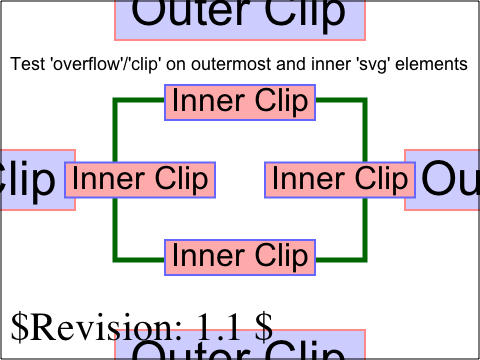
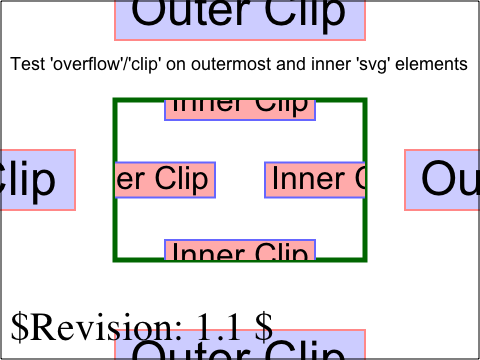
2006-08-11  Eric Seidel  <eric@eseidel.com>
Reviewed by andersca.

        The outermost <svg> element needs to clip itself
        http://bugzilla.opendarwin.org/show_bug.cgi?id=5358

        * css/cssstyleselector.cpp:
        (WebCore::CSSStyleSelector::adjustRenderStyle): adjust for SVG overflow rules
        * kcanvas/RenderSVGContainer.cpp:
        (WebCore::RenderSVGContainer::requiresLayer): only require layers for absolute/relative positioning of outermost SVG
        (WebCore::RenderSVGContainer::paint):
        * kcanvas/device/KRenderingDevice.h:
        * kcanvas/device/quartz/KRenderingDeviceQuartz.h: remove dead methods
        * kcanvas/device/quartz/KRenderingDeviceQuartz.mm: remove dead methods
        (WebCore::KRenderingDeviceContextQuartz::KRenderingDeviceContextQuartz):
        * ksvg2/svg/SVGPaint.cpp: spacing changes
        (WebCore::SVGPaint::SVGPaint): spacing cleanup
        * ksvg2/svg/SVGSVGElement.cpp:
        (WebCore::SVGSVGElement::parseMappedAttribute): spacing cleanup
        * platform/GraphicsContext.h: Added concatCTM
        * platform/cg/GraphicsContextCG.cpp:
        (WebCore::GraphicsContext::concatCTM): Added.

Identifier: 13280@main
git-svn-id: https://svn.webkit.org/repository/webkit/trunk@15842 268f45cc-cd09-0410-ab3c-d52691b4dbfc

diff --git a/WebCore/kcanvas/RenderSVGContainer.cpp b/WebCore/kcanvas/RenderSVGContainer.cpp
@@ -85,7 +85,8 @@ bool RenderSVGContainer::canHaveChildren() const
     
 bool RenderSVGContainer::requiresLayer()
 {
-    return false;
+    // Only allow an <svg> element to generate a layer when it's positioned in a non-SVG context
+    return (isPositioned() || isRelPositioned()) && (parent() && !parent()->element()->isSVGElement());
 }
 
 short RenderSVGContainer::lineHeight(bool b, bool isRootLineBox) const
@@ -126,7 +127,7 @@ void RenderSVGContainer::layout()
     RenderContainer::layout();
 }
 
-void RenderSVGContainer::paint(PaintInfo &paintInfo, int parentX, int parentY)
+void RenderSVGContainer::paint(PaintInfo& paintInfo, int parentX, int parentY)
 {
     if (paintInfo.p->paintingDisabled())
         return;
@@ -165,8 +166,11 @@ void RenderSVGContainer::paint(PaintInfo &paintInfo, int parentX, int parentY)
         parentX = parentY = 0;
     }
     
-    if (!viewport().isEmpty())
+    if (!viewport().isEmpty()) {
+        if (style()->overflowX() != OVISIBLE)
+            paintInfo.p->addClip(enclosingIntRect(viewport())); // FIXME: Eventually we'll want float-precision clipping
         deviceContext->concatCTM(AffineTransform().translate(viewport().x(), viewport().y()));
+    }
     
     if (!localTransform().isIdentity())
         deviceContext->concatCTM(localTransform());

diff --git a/WebCore/ksvg2/svg/SVGSVGElement.cpp b/WebCore/ksvg2/svg/SVGSVGElement.cpp
@@ -247,16 +247,19 @@ void SVGSVGElement::parseMappedAttribute(MappedAttribute *attr)
     } else if (attr->name() == SVGNames::heightAttr) {
         height()->baseVal()->setValueAsString(value.impl());
         addCSSProperty(attr, CSS_PROP_HEIGHT, value);
-    } else
-    {
-        if(SVGTests::parseMappedAttribute(attr)) return;
-        if(SVGLangSpace::parseMappedAttribute(attr)) return;
-        if(SVGExternalResourcesRequired::parseMappedAttribute(attr)) return;
+    } else {
+        if (SVGTests::parseMappedAttribute(attr))
+            return;
+        if (SVGLangSpace::parseMappedAttribute(attr))
+            return;
+        if (SVGExternalResourcesRequired::parseMappedAttribute(attr))
+            return;
         if (SVGFitToViewBox::parseMappedAttribute(attr)) {
             if (renderer())
                 static_cast<RenderSVGContainer*>(renderer())->setViewBox(FloatRect(viewBox()->baseVal()->x(), viewBox()->baseVal()->y(), viewBox()->baseVal()->width(), viewBox()->baseVal()->height()));
         }
-        if(SVGZoomAndPan::parseMappedAttribute(attr)) return;
+        if (SVGZoomAndPan::parseMappedAttribute(attr))
+            return;
 
         SVGStyledLocatableElement::parseMappedAttribute(attr);
     }

diff --git a/WebCore/ksvg2/svg/SVGPaint.cpp b/WebCore/ksvg2/svg/SVGPaint.cpp
@@ -25,25 +25,29 @@
 #include "ksvg.h"
 #include "SVGPaint.h"
 
-using namespace WebCore;
+namespace WebCore {
 
-SVGPaint::SVGPaint() : SVGColor()
+SVGPaint::SVGPaint()
+    : SVGColor()
 {
     m_paintType = SVG_PAINTTYPE_UNKNOWN;
 }
 
-SVGPaint::SVGPaint(StringImpl *uri) : SVGColor()
+SVGPaint::SVGPaint(StringImpl *uri)
+    : SVGColor()
 {
     m_paintType = SVG_PAINTTYPE_URI;
     setUri(uri);
 }
 
-SVGPaint::SVGPaint(unsigned short paintType) : SVGColor()
+SVGPaint::SVGPaint(unsigned short paintType)
+    : SVGColor()
 {
     m_paintType = paintType;
 }
 
-SVGPaint::SVGPaint(unsigned short paintType, StringImpl *uri, StringImpl *rgbPaint, StringImpl *) : SVGColor(rgbPaint)
+SVGPaint::SVGPaint(unsigned short paintType, StringImpl *uri, StringImpl *rgbPaint, StringImpl *)
+    : SVGColor(rgbPaint)
 {
     m_paintType = paintType;
     setUri(uri);
@@ -88,6 +92,8 @@ String SVGPaint::cssText() const
         return "url(" + m_uri + ")";
 
     return SVGColor::cssText();
+}
+
 }
 
 // vim:ts=4:noet

diff --git a/WebCore/kcanvas/device/quartz/KRenderingDeviceQuartz.mm b/WebCore/kcanvas/device/quartz/KRenderingDeviceQuartz.mm
@@ -44,7 +44,9 @@
 
 namespace WebCore {
 
-KRenderingDeviceContextQuartz::KRenderingDeviceContextQuartz(CGContextRef context) : m_cgContext(CGContextRetain(context)), m_nsGraphicsContext(0)
+KRenderingDeviceContextQuartz::KRenderingDeviceContextQuartz(CGContextRef context)
+    : m_cgContext(CGContextRetain(context))
+    , m_nsGraphicsContext(0)
 {
     ASSERT(m_cgContext);
 }
@@ -68,16 +70,6 @@ KCanvasMatrix KRenderingDeviceContextQuartz::ctm() const
 {
     CGAffineTransform contextCTM = CGContextGetCTM(m_cgContext);
     return KCanvasMatrix(contextCTM.a, contextCTM.b, contextCTM.c, contextCTM.d, contextCTM.tx, contextCTM.ty);
-}
-
-IntRect KRenderingDeviceContextQuartz::mapFromVisual(const IntRect &rect)
-{
-    return IntRect();
-}
-
-IntRect KRenderingDeviceContextQuartz::mapToVisual(const IntRect &rect)
-{
-    return IntRect();
 }
 
 void KRenderingDeviceContextQuartz::clearPath()

diff --git a/WebCore/css/cssstyleselector.cpp b/WebCore/css/cssstyleselector.cpp
@@ -1086,6 +1086,21 @@ void CSSStyleSelector::adjustRenderStyle(RenderStyle* style, Element *e)
         else
             theme()->adjustStyle(this, style, e);
     }
+    
+#ifdef SVG_SUPPORT
+    if (e->isSVGElement()) {
+        // Spec: http://www.w3.org/TR/SVG/masking.html#OverflowProperty
+        if (style->overflowY() == OSCROLL)
+            style->setOverflowY(OHIDDEN);
+        else if (style->overflowY() == OAUTO)
+            style->setOverflowY(OVISIBLE);
+        
+        if (style->overflowX() == OSCROLL)
+            style->setOverflowX(OHIDDEN);
+        else if (style->overflowX() == OAUTO)
+            style->setOverflowX(OVISIBLE);
+    }
+#endif
 }
 
 void CSSStyleSelector::updateFont()

diff --git a/WebCore/platform/cg/GraphicsContextCG.cpp b/WebCore/platform/cg/GraphicsContextCG.cpp
@@ -26,6 +26,7 @@
 #include "config.h"
 #include "GraphicsContext.h"
 
+#include "AffineTransform.h"
 #include "KRenderingDeviceQuartz.h"
 #include "Path.h"
 
@@ -632,6 +633,13 @@ void GraphicsContext::translate(const FloatSize& size)
     if (paintingDisabled())
         return;
     CGContextTranslateCTM(platformContext(), size.width(), size.height());
+}
+
+void GraphicsContext::concatCTM(const AffineTransform& transform)
+{
+    if (paintingDisabled())
+        return;
+    CGContextConcatCTM(platformContext(), transform);
 }
 
 FloatRect GraphicsContext::roundToDevicePixels(const FloatRect& rect)

diff --git a/WebCore/platform/GraphicsContext.h b/WebCore/platform/GraphicsContext.h
@@ -54,6 +54,7 @@ namespace WebCore {
     const int cMisspellingLinePatternWidth = 4;
     const int cMisspellingLinePatternGapWidth = 1;
 
+    class AffineTransform;
     class DeprecatedString;
     class Font;
     class GraphicsContextPrivate;
@@ -155,6 +156,8 @@ namespace WebCore {
         void scale(const FloatSize&);
         void rotate(float angleInRadians);
         void translate(const FloatSize&);
+        
+        void concatCTM(const AffineTransform&);
 
 #ifdef SVG_SUPPORT
         KRenderingDeviceContext* createRenderingDeviceContext();

diff --git a/WebCore/kcanvas/device/KRenderingDevice.h b/WebCore/kcanvas/device/KRenderingDevice.h
@@ -39,10 +39,7 @@ public:
 
     virtual KCanvasMatrix concatCTM(const KCanvasMatrix &worldMatrix) = 0;
     virtual KCanvasMatrix ctm() const = 0;
-    
-    virtual IntRect mapFromVisual(const IntRect &rect) = 0;
-    virtual IntRect mapToVisual(const IntRect &rect) = 0;
-    
+        
     virtual void clearPath() = 0;
     virtual void addPath(const KCanvasPath*) = 0;
 

diff --git a/WebCore/kcanvas/device/quartz/KRenderingDeviceQuartz.h b/WebCore/kcanvas/device/quartz/KRenderingDeviceQuartz.h
@@ -49,9 +49,6 @@ public:
     virtual KCanvasMatrix concatCTM(const KCanvasMatrix &worldMatrix);
     virtual KCanvasMatrix ctm() const;
     
-    virtual IntRect mapFromVisual(const IntRect &rect);
-    virtual IntRect mapToVisual(const IntRect &rect);
-    
     virtual void clearPath();
     virtual void addPath(const KCanvasPath*);
 
